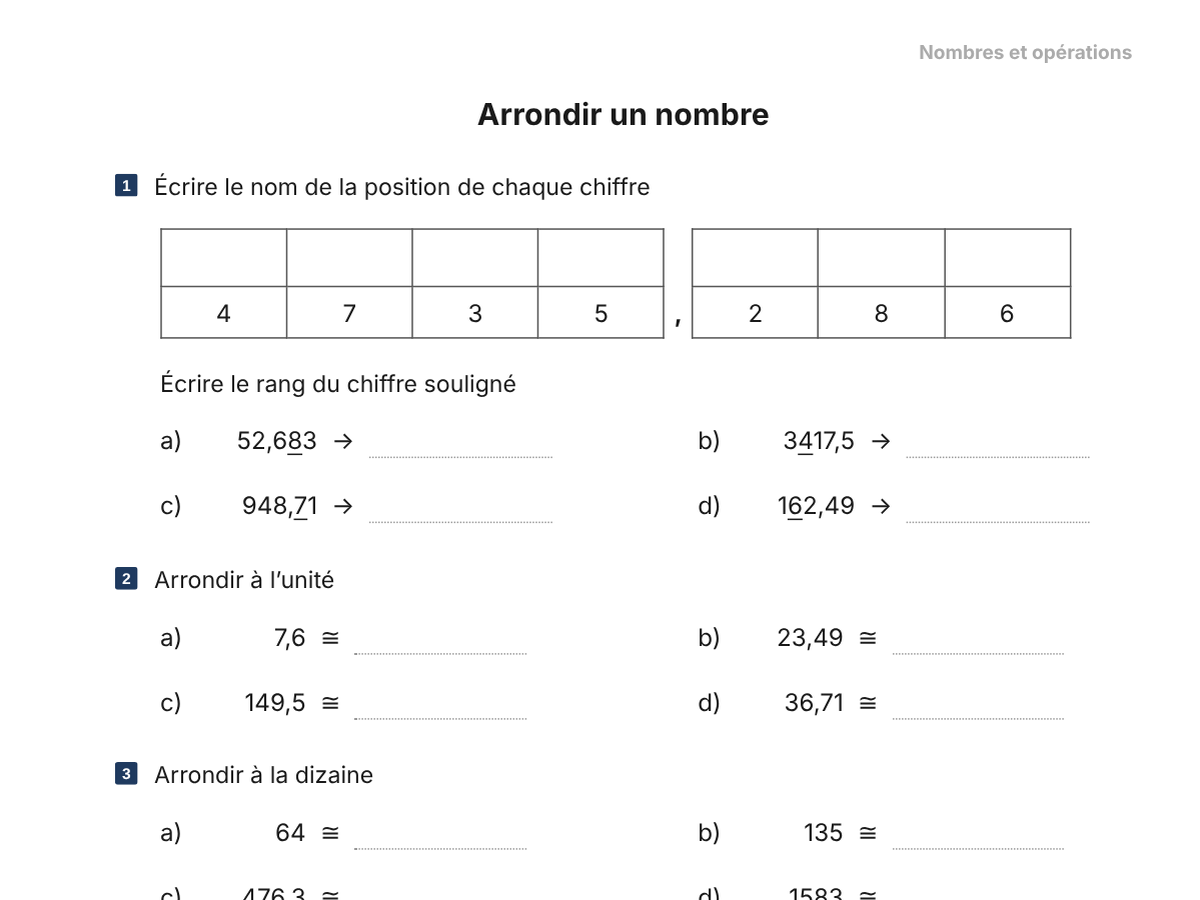
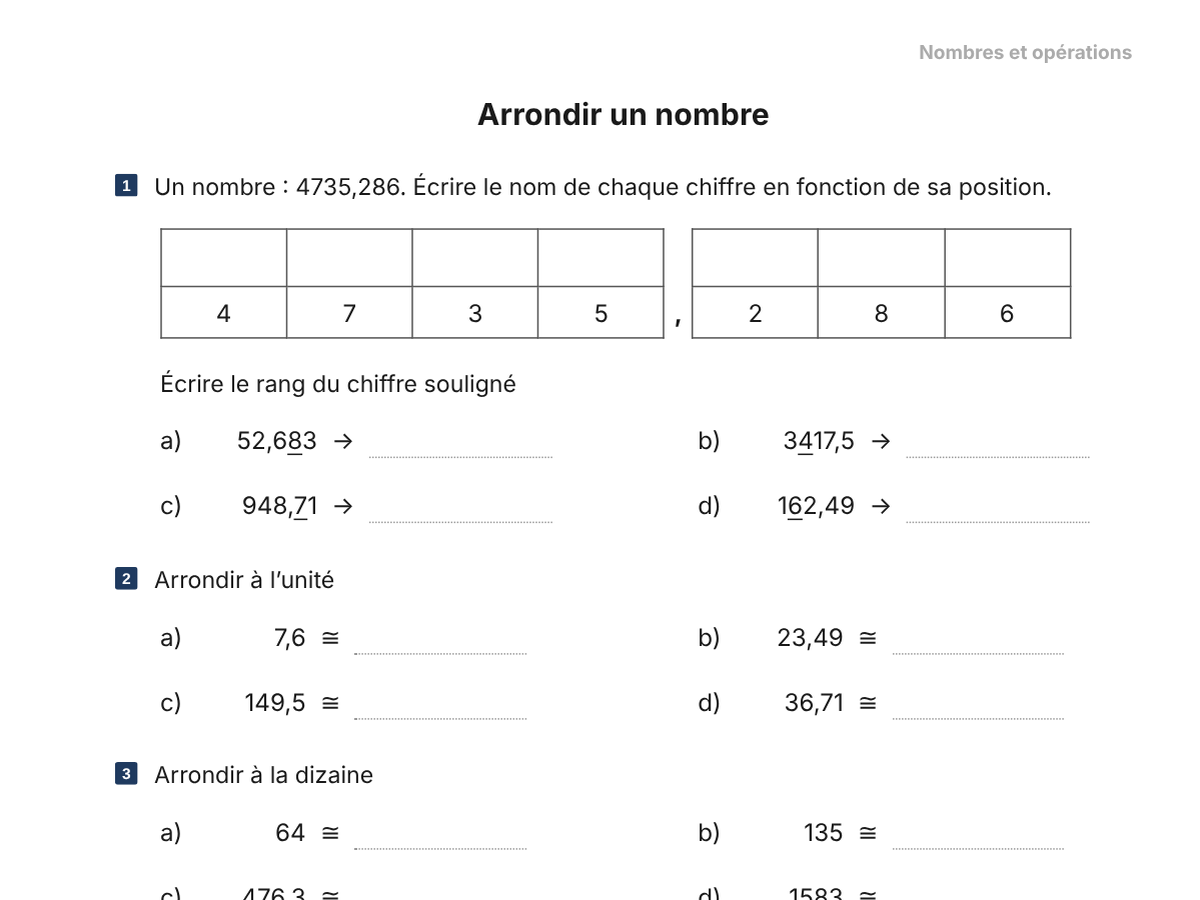
NO_arrondir_exercices : nouvelle consigne de l’exercice 1, aperçu actualisé
Claude-Session: https://claude.ai/code/session_013Ryes6nvaqtqMiuyvPtswc

Changed region(s): [[0.1233, 0.1867, 0.8633, 0.2178]]

diff --git a/NO_arrondir_exercices.html b/NO_arrondir_exercices.html
@@ -146,7 +146,7 @@ table.num td.virg{border-left:none;border-right:none;font-weight:700}
 
   <div class="exo-titre">
     <svg class="pastille" viewBox="0 0 16 16" aria-hidden="true"><rect width="16" height="16" rx="2" fill="#1F3A5F"></rect><text x="8" y="12" text-anchor="middle" fill="#fff" font-size="11" font-weight="700" font-family="Verdana,sans-serif">1</text></svg>
-    <span class="consigne">Écrire le nom de la position de chaque chiffre</span>
+    <span class="consigne">Un nombre&nbsp;: 4735,286. Écrire le nom de chaque chiffre en fonction de sa position.</span>
   </div>
   <table class="num">
     <tr><th><span class="sol">milliers</span></th><th><span class="sol">centaines</span></th><th><span class="sol">dizaines</span></th><th><span class="sol">unités</span></th><th class="virg"></th><th><span class="sol">dixièmes</span></th><th><span class="sol">centièmes</span></th><th><span class="sol">millièmes</span></th></tr>
